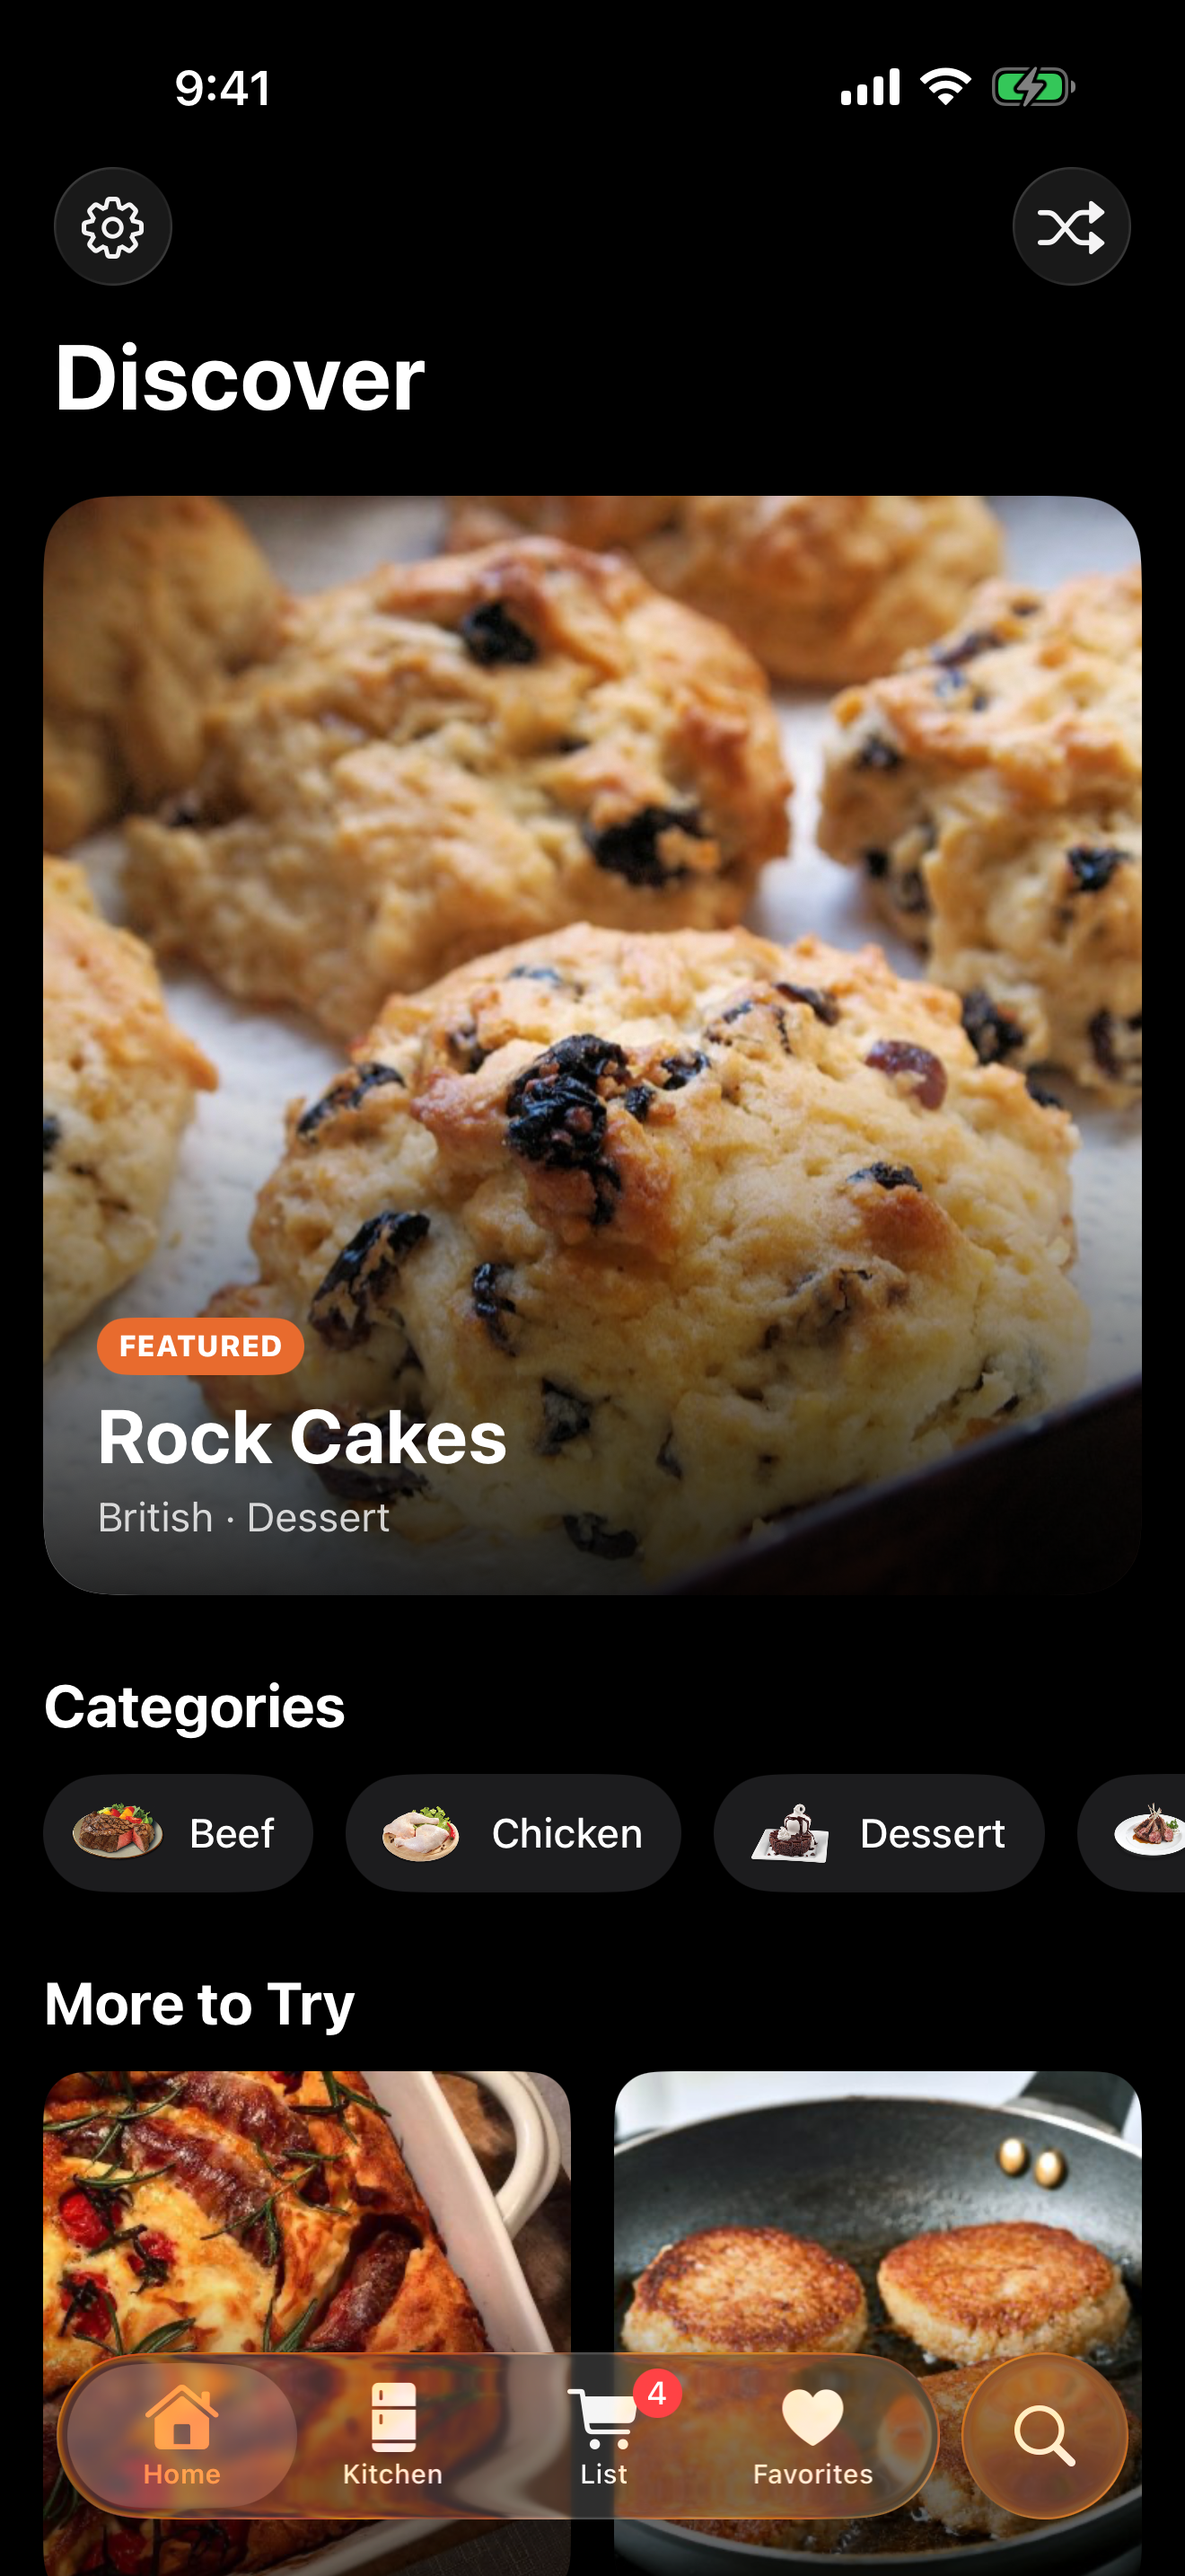
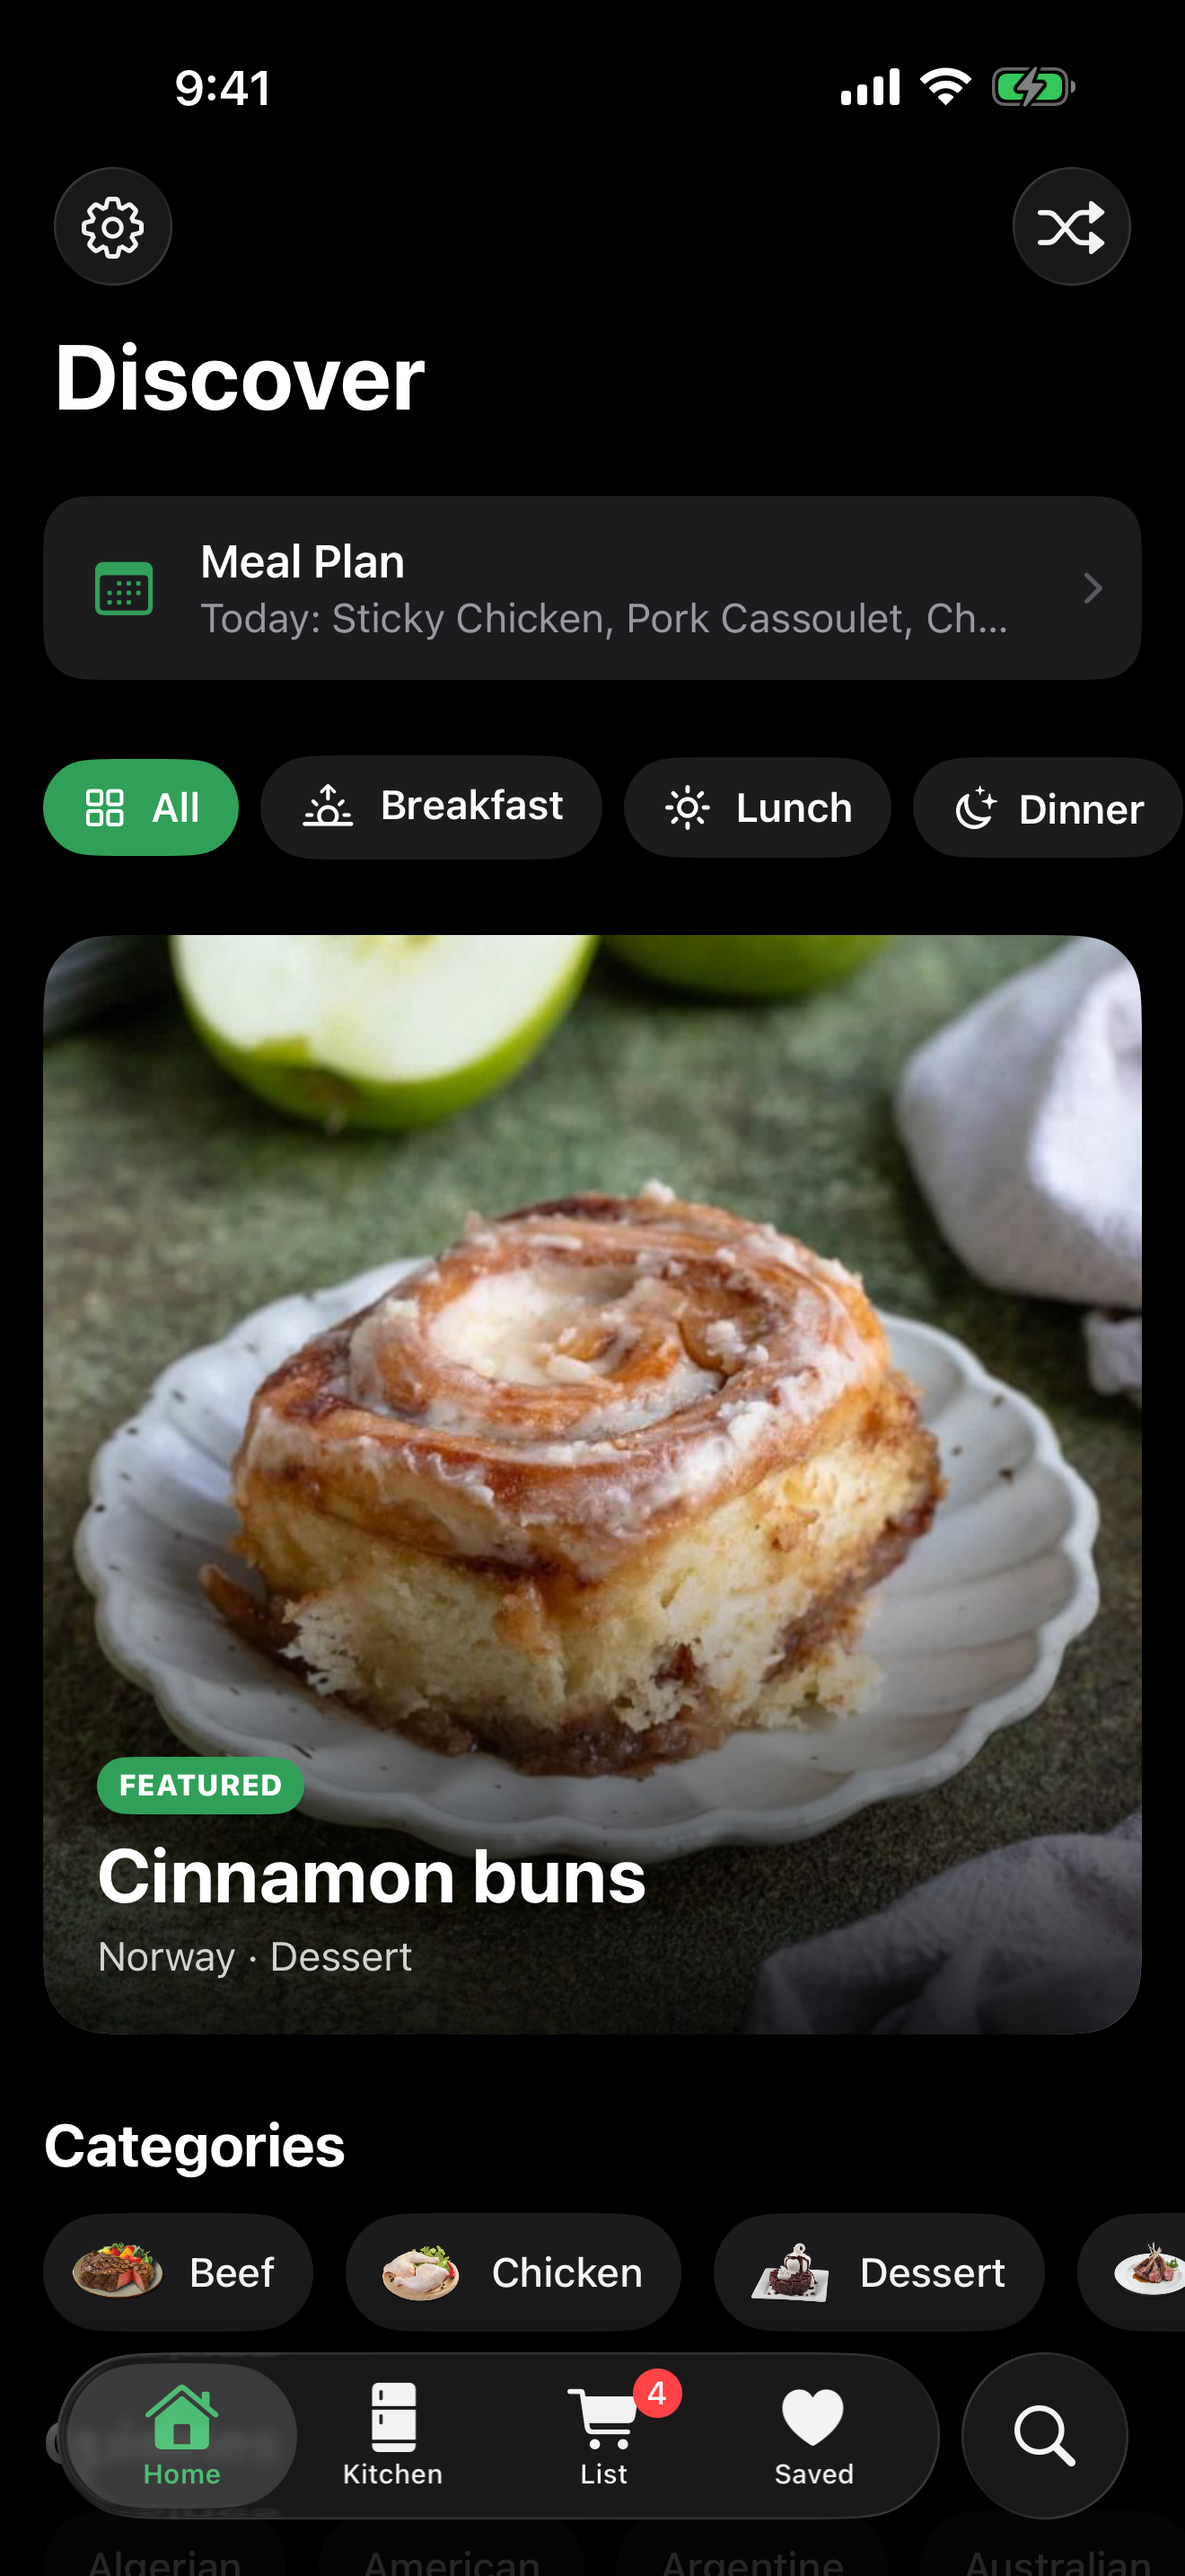
Update App Store listing materials for 1.4
Retake the screenshots from the current build, add Meal Plan and
Nutrition shots, and add copies sized for App Store Connect's medium
iPhone slot. Bring the listing text and privacy policy in line with
iCloud sync and the meal plan.

diff --git a/AppStore/site/privacy.html b/AppStore/site/privacy.html
@@ -18,7 +18,7 @@
 <body>
 <main>
   <h1>Privacy Policy</h1>
-  <p class="muted">Recipe Rescuer · Last updated October 10, 2026</p>
+  <p class="muted">Recipe Rescuer · Last updated November 5, 2026</p>
 
   <p>Recipe Rescuer is built to work without collecting anything about you. This policy explains what the app stores and what it sends over the internet.</p>
 

diff --git a/AppStore/listing.md b/AppStore/listing.md
@@ -39,16 +39,22 @@ Halve, double or triple any recipe and every amount updates, including your shop
 EAT THE WAY YOU EAT
 Vegetarian, vegan, gluten-free and dairy-free filters apply across the whole app.
 
+PLAN YOUR WEEK
+Put recipes on the days you'll cook them, then add everything you're missing to your shopping list in one tap.
+
 SHOP SMARTER
 Add a recipe's missing ingredients to your shopping list in one tap. Check items off as you shop, then move them into your kitchen when you get home.
 
 DISCOVER SOMETHING NEW
-Browse breakfast, lunch, dinner and dessert ideas, see estimated cooking times, and get a fresh feed of recipes from around the world every time you open the app.
+Browse by cuisine or by breakfast, lunch, dinner and dessert, see estimated cooking times and calories, and get a fresh feed of recipes from around the world every time you open the app.
+
+ON ALL YOUR DEVICES
+Your kitchen, saved recipes, shopping list and meal plan stay up to date through your own iCloud account.
 
 PRIVATE BY DESIGN
-No account, no ads, no tracking. Your kitchen, recipes and lists stay on your phone.
+No sign-up, no ads, no tracking. Your data stays on your devices and in your private iCloud, where we can't see it.
 
-Recipe data from TheMealDB.
+Recipe data from TheMealDB. Nutrition estimates use USDA FoodData Central.
 
 ## Keywords (100 max, comma-separated, no spaces needed)
 
@@ -58,9 +64,14 @@ recipes,cooking,pantry,meal ideas,dinner,shopping list,leftovers,cookbook,vegan,
 
 - Meal Plan: plan your week, then add everything you're missing to your shopping list in one tap.
 - iCloud sync: your kitchen, saved recipes, photos, shopping list and meal plan stay up to date across your devices.
+- Nutrition estimates: see calories, protein, carbs and fat per serving on most recipes.
+- Browse recipes by cuisine.
 - Shopping list amounts now add up when two recipes need the same ingredient.
+- Fixed pull-to-refresh on the Home screen and the Quick Add Hide button in Kitchen.
 
 ## What's New (version 1.3)
+
+Not released. Its changes shipped in 1.4.
 
 - See estimated calories, protein, carbs and more for each recipe
 - Browse recipes by cuisine
@@ -101,10 +112,14 @@ No sign-in is required. The app loads recipe data from TheMealDB's public API, s
 
 ## Screenshots
 
-6.9" iPhone screenshots (1320 × 2868) are in `AppStore/screenshots/`. Upload them in this order:
+6.9" iPhone screenshots (1320 × 2868) of version 1.4 are in `AppStore/screenshots/`, in this order:
 
 1. Discover
-2. Recipe ideas from your kitchen
-3. Recipe detail
-4. Shopping list
-5. Kitchen
+2. Meal Plan
+3. Recipe ideas from your kitchen
+4. Recipe detail
+5. Nutrition estimate
+6. Shopping list
+7. Kitchen
+
+App Store Connect's medium iPhone slot takes 1206 × 2622 instead. `AppStore/screenshots/for-1.4-draft/` has the two 1.4 additions at that size, to add to the six already in the draft.
